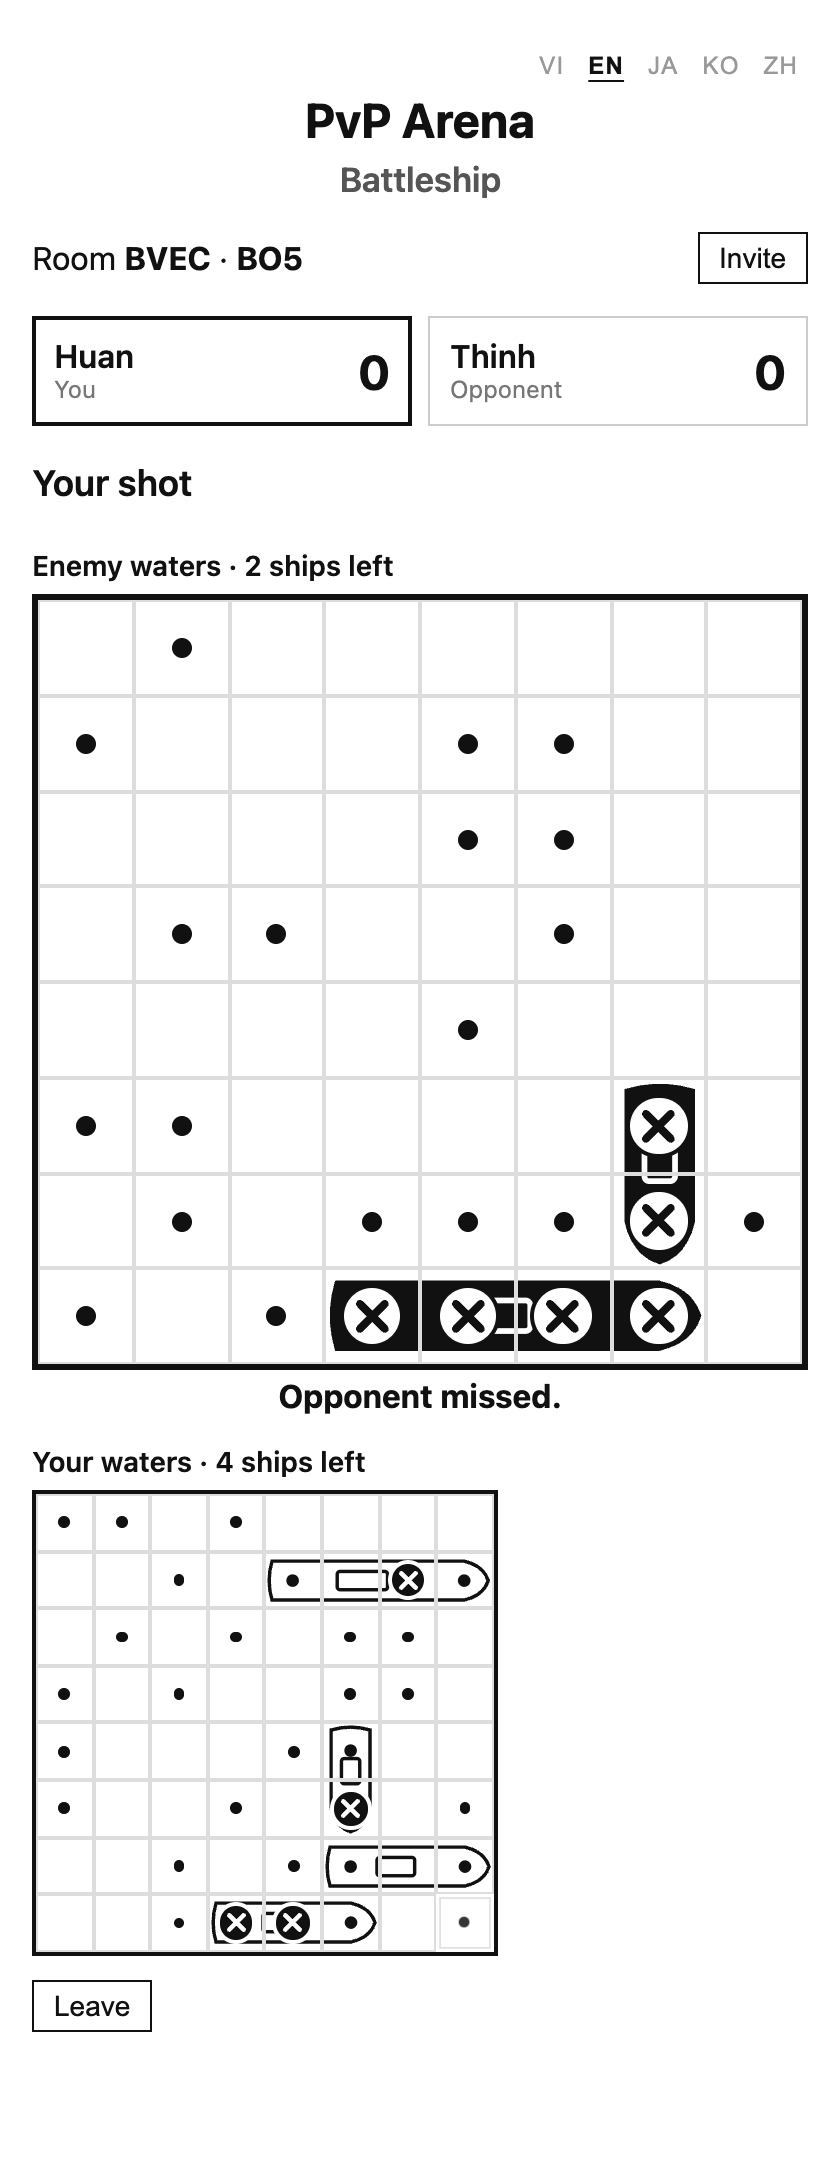
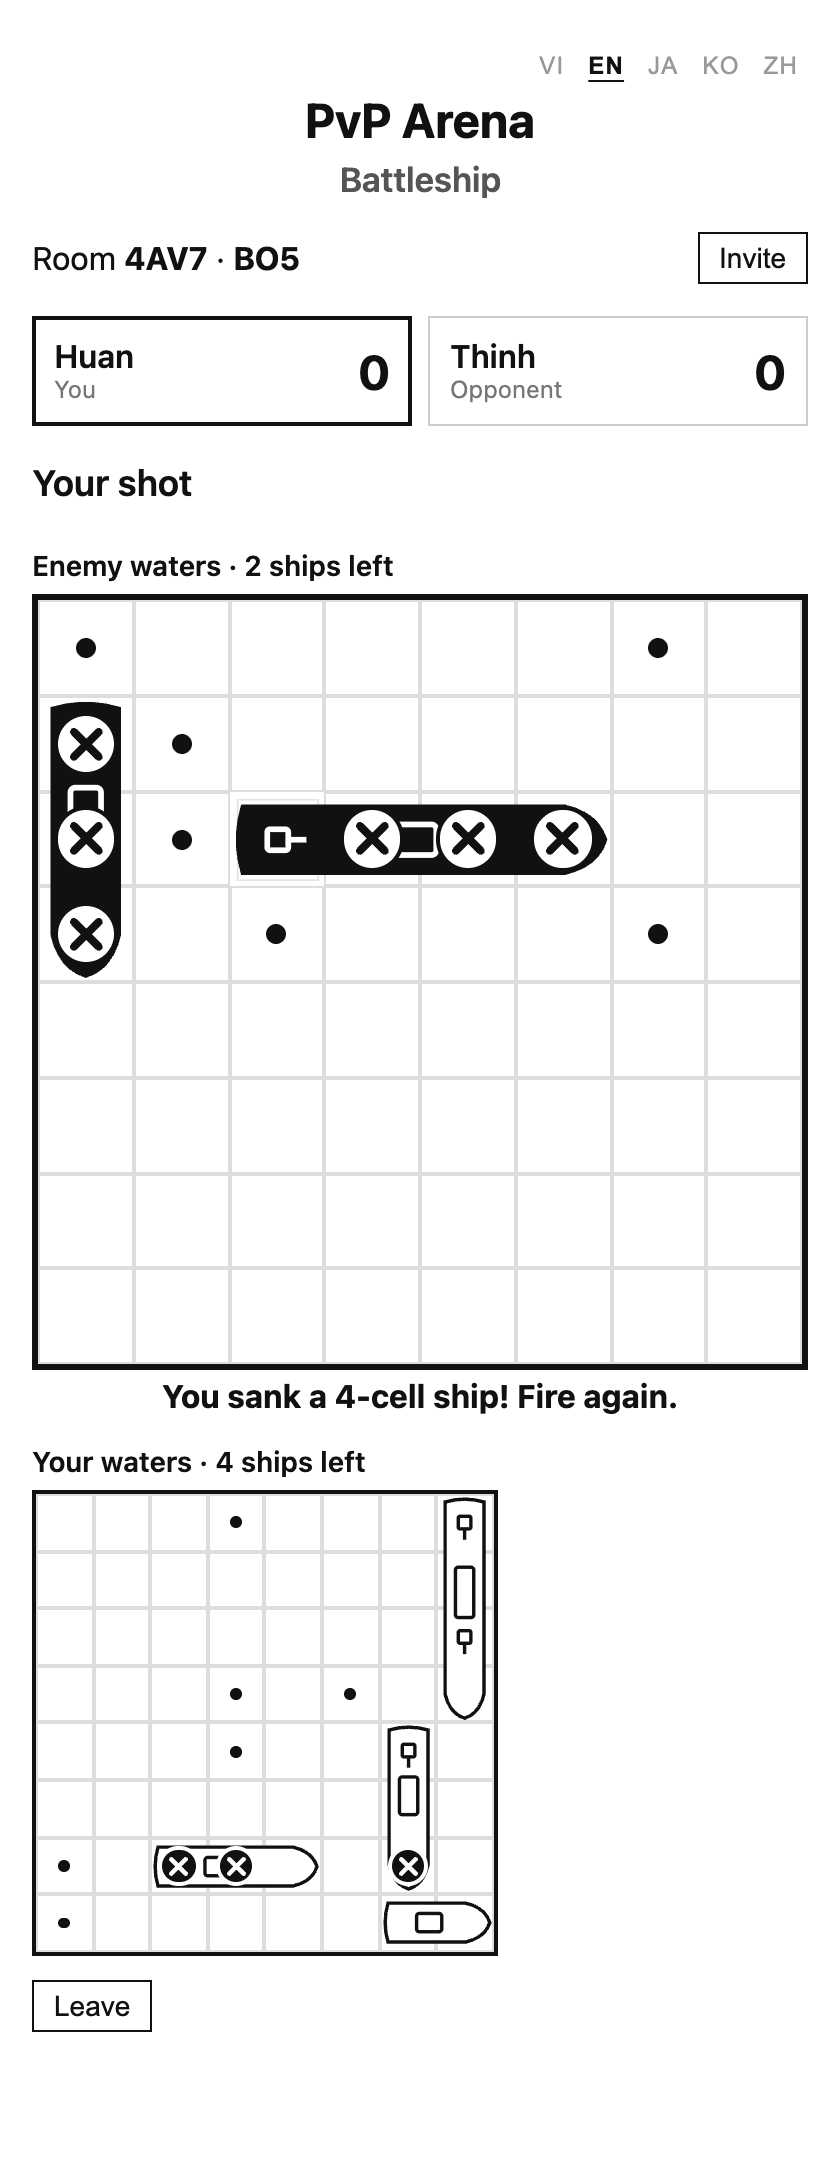
Fix room code input, odd-only BO, clearer Battleship ships and tools

diff --git a/public/style.css b/public/style.css
@@ -33,6 +33,7 @@ h2.subtitle { font-size: 17px; font-weight: 600; text-align: center; margin: -14
 .bo { display: flex; align-items: stretch; margin-top: 4px; }
 .bo span { display: flex; align-items: center; padding: 0 10px; border: 1px solid #999; border-right: none; font-weight: 700; background: #f2f2f2; }
 .bo input { margin-top: 0; }
+#code { text-transform: uppercase; }
 h2 { font-size: 16px; margin: 0 0 12px; }
 
 .muted { color: #777; font-size: 14px; margin: 0; }
@@ -245,7 +246,7 @@ label.check input { width: auto; margin: 0; }
   background: #fff;
 }
 .sea.small { width: 60%; margin: 0 auto 0 0; }
-.sea .ships { position: absolute; inset: 0; pointer-events: none; }
+.sea .ships { position: absolute; inset: 0; pointer-events: none; z-index: 1; }
 .sea .ship { position: absolute; }
 .sea .ship svg { width: 100%; height: 100%; display: block; }
 .sea .c {
@@ -257,7 +258,6 @@ label.check input { width: auto; margin: 0; }
   min-height: 0;
   overflow: hidden;
   position: relative;
-  z-index: 1;
   display: flex;
   align-items: center;
   justify-content: center;
@@ -265,13 +265,15 @@ label.check input { width: auto; margin: 0; }
 .sea button.c:hover:not(:disabled) { background: rgba(0, 0, 0, 0.08); }
 .sea.enemy.active { border-width: 3px; }
 .sea .c:disabled { cursor: default; }
-.sea .c.miss::after { content: ''; width: 22%; aspect-ratio: 1; border-radius: 50%; background: #111; }
+.sea .c.miss::after { content: ''; position: relative; z-index: 2; width: 22%; aspect-ratio: 1; border-radius: 50%; background: #111; }
 /* Trúng nhưng chưa thấy tàu (biển đối thủ): ô xám đậm. Trúng lên hình tàu: chỉ vẽ dấu X. */
 .sea .c.hit { background: #555; color: #fff; }
 .sea .c.hit.onship { background: transparent; }
 .sea .c.hit.onship svg { width: 62%; height: 62%; background: #111; color: #fff; border-radius: 50%; box-shadow: 0 0 0 2px #fff; }
 .sea .c.hit.onship.dark svg { background: #fff; color: #111; box-shadow: 0 0 0 2px #111; }
-.sea .c svg { width: 70%; height: 70%; }
+.sea .c svg { position: relative; z-index: 2; width: 70%; height: 70%; }
 .sea .c.pop { animation: pop 0.3s ease-out; }
-.tools { display: flex; flex-wrap: wrap; gap: 6px; margin: 12px 0; align-items: center; }
+.tools { display: flex; flex-wrap: wrap; gap: 6px; margin: 12px 0; align-items: stretch; }
+.tools button { line-height: 1.2; }
+.tools button[data-act="dir"] { min-width: 72px; }
 .tools button:last-child { margin-left: auto; }

diff --git a/public/games/battleship.js b/public/games/battleship.js
@@ -67,12 +67,17 @@ function shipSvg(len, dir, sunk) {
   const fill = sunk ? '#111' : '#fff';
   const ink = sunk ? '#fff' : '#111';
   const hull = `M14 16 H${L - 50} Q${L - 16} 24 ${L - 8} 50 Q${L - 16} 76 ${L - 50} 84 H14 Q4 50 14 16 Z`;
-  const cabin = `<rect x="${L * 0.32}" y="34" width="${Math.max(40, L * 0.22)}" height="32" rx="5" fill="none" stroke="${ink}" stroke-width="6"/>`;
+  const cabX = L * 0.32;
+  const cabW = Math.max(40, L * 0.22);
+  const cabin = `<rect x="${cabX}" y="34" width="${cabW}" height="32" rx="5" fill="none" stroke="${ink}" stroke-width="6"/>`;
   let turrets = '';
   for (let k = 0; k < len; k++) {
     const cx = 50 + k * 100;
-    if (cx > L * 0.3 && cx < L * 0.32 + Math.max(40, L * 0.22) + 10) continue;
-    turrets += `<circle cx="${cx}" cy="50" r="11" fill="${ink}"/>`;
+    // Bỏ tháp pháo nào chạm buồng lái hoặc mũi tàu.
+    if (cx + 34 > cabX && cx - 15 < cabX + cabW) continue;
+    if (cx + 34 > L - 40) continue;
+    // Tháp pháo hình vuông có nòng chĩa về mũi tàu, khác hẳn dấu chấm bắn trượt.
+    turrets += `<rect x="${cx - 11}" y="39" width="22" height="22" rx="3" fill="none" stroke="${ink}" stroke-width="6"/><path d="M${cx + 11} 50 H${cx + 30}" stroke="${ink}" stroke-width="6"/>`;
   }
   const body = `<path d="${hull}" fill="${fill}" stroke="#111" stroke-width="6"/>${cabin}${turrets}`;
   return dir === 'h'
@@ -115,7 +120,7 @@ function renderPlace(el, state, you, api, room) {
     <p class="hint">${left.length ? t('bs.next', { n: left[0] }) : t('bs.allPlaced')}</p>
     ${grid(size, 'place', (i) => `<button class="c" data-i="${i}"></button>`, shipsLayer(draft.ships, size))}
     <div class="tools">
-      <button class="small" data-act="dir">${draft.dir === 'h' ? '⇆ ' + t('bs.horizontal') : '⇅ ' + t('bs.vertical')}</button>
+      <button class="small" data-act="dir">${draft.dir === 'h' ? t('bs.horizontal') : t('bs.vertical')}</button>
       <button class="small" data-act="random">${t('bs.random')}</button>
       <button class="small" data-act="clear">${t('bs.clear')}</button>
       <button data-act="ready" ${left.length || you < 0 ? 'disabled' : ''}>${t('bs.ready')}</button>

diff --git a/public/app.js b/public/app.js
@@ -53,6 +53,13 @@ function renderOptions() {
   ).join('');
 }
 
+function oddBo(v) {
+  let n = Math.min(99, Math.max(1, parseInt(v, 10) || 3));
+  if (n % 2 === 0) n += 1;
+  return Math.min(n, 99);
+}
+$('bo').addEventListener('change', () => ($('bo').value = oddBo($('bo').value)));
+
 $('game').onchange = () => {
   localStorage.setItem('game', $('game').value);
   renderOptions();
@@ -177,10 +184,12 @@ function renderRoom() {
 $('create').onclick = () => {
   const options = {};
   document.querySelectorAll('[data-opt]').forEach((el) => (options[el.dataset.opt] = el.checked));
-  sendMsg({ type: 'create', game: $('game').value, name: myName(), bo: +$('bo').value, options });
+  sendMsg({ type: 'create', game: $('game').value, name: myName(), bo: oddBo($('bo').value), options });
 };
 $('join').onclick = () => sendMsg({ type: 'join', code: $('code').value.trim().toUpperCase(), name: myName() });
-$('code').onkeydown = (e) => e.key === 'Enter' && $('join').click();
+$('code').addEventListener('keydown', (e) => {
+  if (e.key === 'Enter') $('join').click();
+});
 $('rematch').onclick = () => sendMsg({ type: 'rematch' });
 $('leave').onclick = () => {
   sendMsg({ type: 'leave' });

diff --git a/public/index.html b/public/index.html
@@ -24,7 +24,7 @@
           <select id="game"></select>
         </label>
         <label><span data-i18n="format"></span>
-          <span class="bo"><span>BO</span><input id="bo" type="number" min="1" max="99" value="3"></span>
+          <span class="bo"><span>BO</span><input id="bo" type="number" min="1" max="99" step="2" value="3"></span>
         </label>
         <div id="options"></div>
         <button id="create" data-i18n="create"></button>
@@ -33,7 +33,7 @@
       <div class="box">
         <h2 data-i18n="join"></h2>
         <label><span data-i18n="roomCode"></span>
-          <input id="code" maxlength="4" data-i18n-ph="codePh">
+          <input id="code" maxlength="4" autocomplete="off" autocapitalize="characters" spellcheck="false" data-i18n-ph="codePh">
         </label>
         <button id="join" data-i18n="join"></button>
       </div>

diff --git a/server.js b/server.js
@@ -107,7 +107,8 @@ const handlers = {
     if (!game) return error(ws, 'noGame');
     leave(ws);
     // BOn: thắng khi đạt quá nửa số ván, ví dụ BO5 thì cần 3 điểm.
-    const bo = Math.min(99, Math.max(1, parseInt(msg.bo, 10) || 3));
+    let bo = Math.min(99, Math.max(1, parseInt(msg.bo, 10) || 3));
+    if (bo % 2 === 0) bo += 1; // BO luôn là số lẻ để không có hòa trận
     const target = Math.floor(bo / 2) + 1;
     const options = readOptions(game, msg.options);
     const room = {
